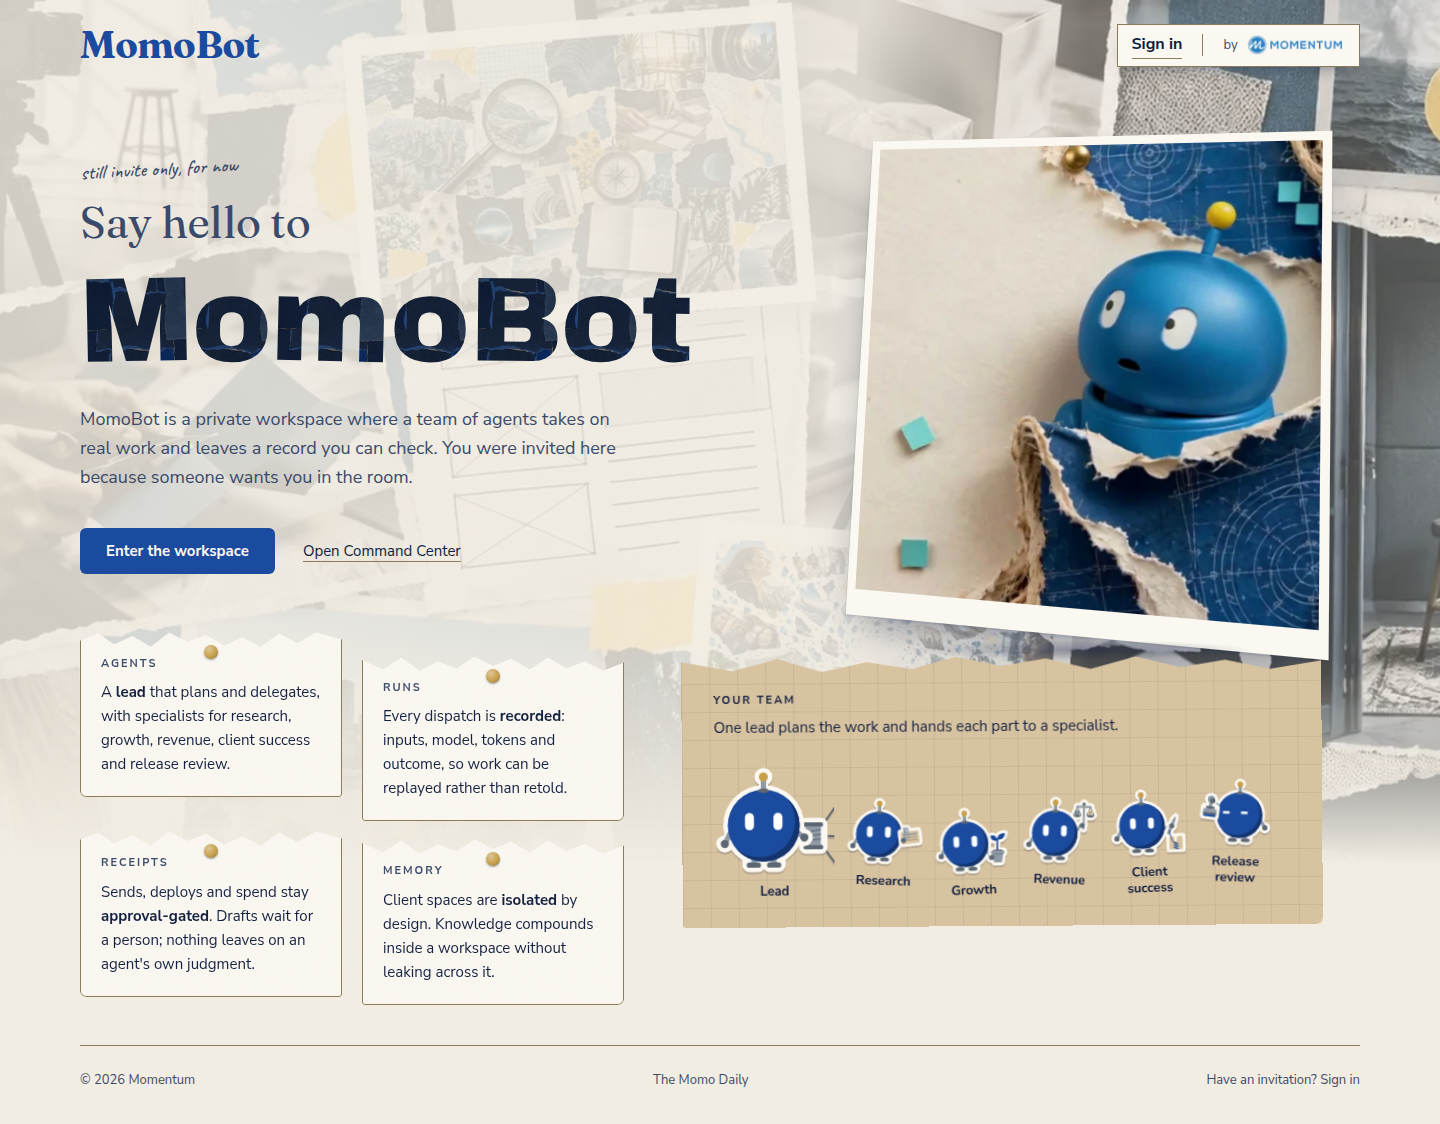
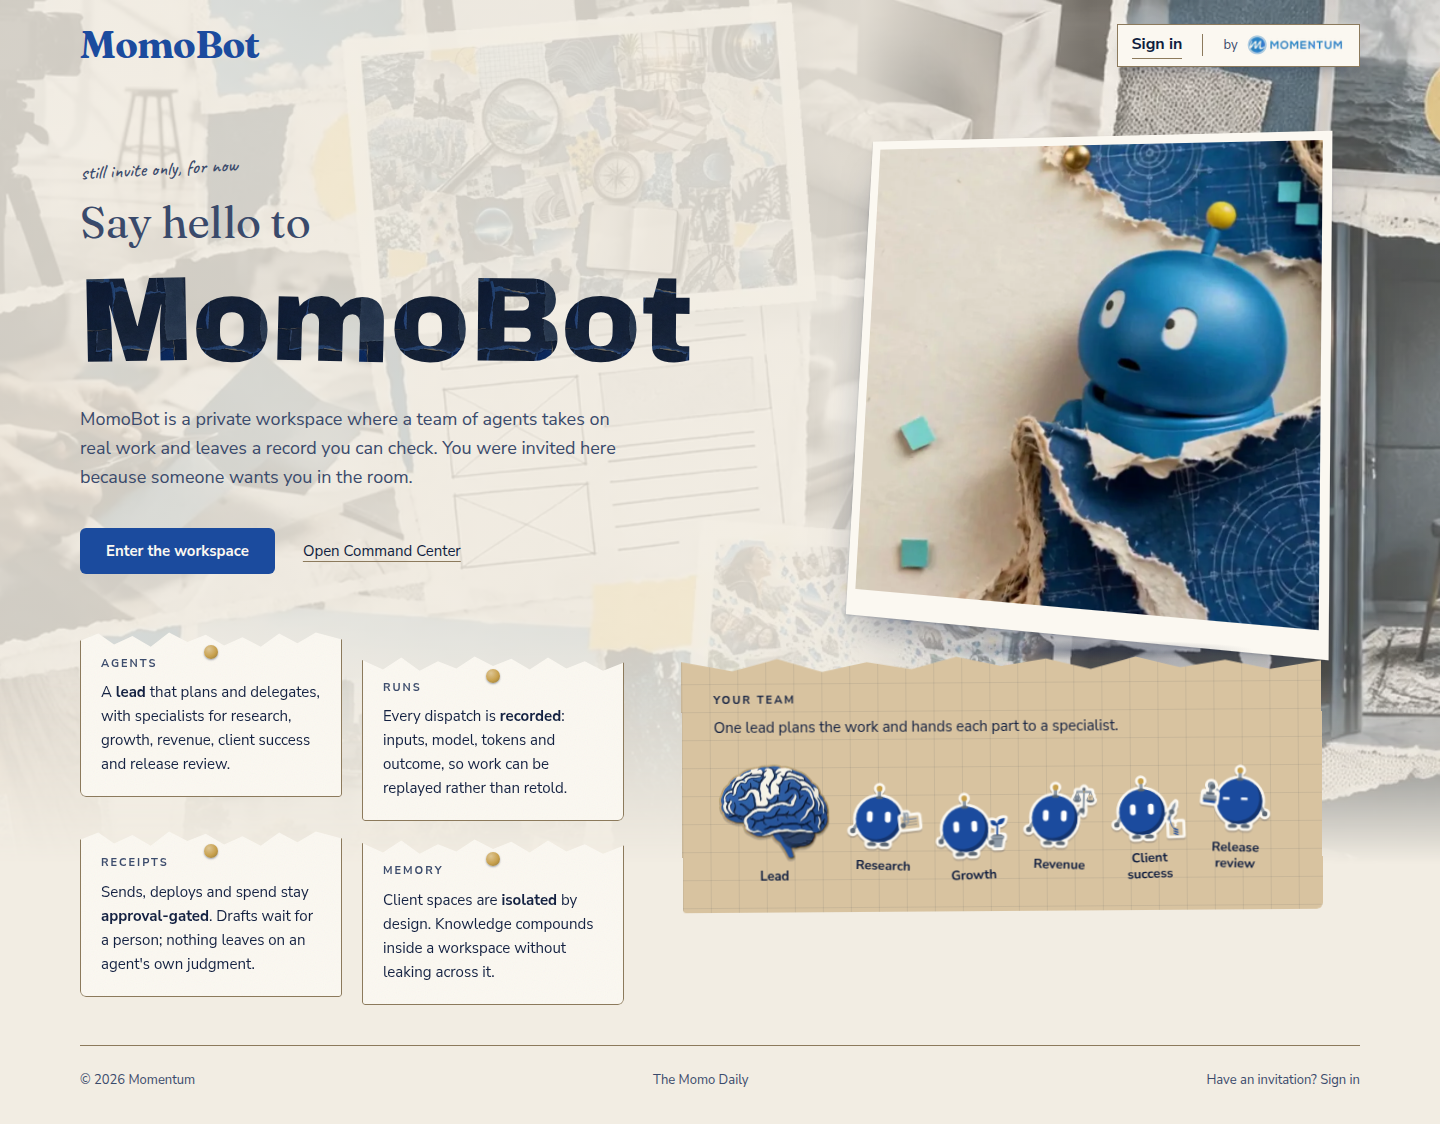
design(d7): team sheet lead is Dillon Brain; Momo stays in column 1 at 64-72rem
Review on #48: the sheet drew the lead as the generic lead.svg, which no
signed-in view uses; it now draws BRAIN_FLAT, the art MomoAvatar and the
Command Center use for dillon-brain. Between 64rem and 72rem the widened
hero grid centred Momo across the whole shell; he now takes column 1.
Test asserts the lead's art; 1100px evidence shot added.

Claude-Session: https://claude.ai/code/session_01LPnt5uD6dL4e76HEEDtExP

Changed region(s): [[0.4688, 0.6851, 0.9375, 0.8407]]

diff --git a/frontend/src/components/momentum/landing/momentum-landing.tsx b/frontend/src/components/momentum/landing/momentum-landing.tsx
@@ -35,6 +35,10 @@ import {
   FUNNEL_TREATMENT,
   resolveFunnelTreatment,
 } from "@/components/momentum/treatment";
+import {
+  BRAIN_ASPECT,
+  BRAIN_FLAT,
+} from "@/components/workspace/command-center/momo-avatar";
 
 import styles from "./momentum-landing.module.css";
 
@@ -84,17 +88,24 @@ const CAPABILITIES = [
 
 /*
  * The team sheet beside the cards: the lead and the five specialists the
- * Agents card names, drawn with the same canon Momo art the Command Center
- * roster uses (public/momentum/momos, momo-avatar.tsx), so the front door
- * shows the team people will actually meet. The lead comes first and larger.
+ * Agents card names, drawn with the art the Command Center roster uses. The
+ * lead is Dillon Brain (the flat render of the BRAIN_LAYERS stack that
+ * MomoAvatar draws for "dillon-brain"); the specialists are canon Momos from
+ * public/momentum/momos. The lead comes first and larger.
  */
+const momo = (slug: string) => `/momentum/momos/${slug}.svg`;
 const TEAM = [
-  { slug: "lead", name: "Lead" },
-  { slug: "research", name: "Research" },
-  { slug: "growth", name: "Growth" },
-  { slug: "revenue", name: "Revenue" },
-  { slug: "client-success", name: "Client success" },
-  { slug: "qa", name: "Release review" },
+  { key: "lead", name: "Lead", src: BRAIN_FLAT, aspect: BRAIN_ASPECT },
+  { key: "research", name: "Research", src: momo("research"), aspect: 1 },
+  { key: "growth", name: "Growth", src: momo("growth"), aspect: 1 },
+  { key: "revenue", name: "Revenue", src: momo("revenue"), aspect: 1 },
+  {
+    key: "client-success",
+    name: "Client success",
+    src: momo("client-success"),
+    aspect: 1,
+  },
+  { key: "qa", name: "Release review", src: momo("qa"), aspect: 1 },
 ] as const;
 
 // Staggered pin offsets for the four paper cards — deliberately uneven, never
@@ -316,13 +327,13 @@ function PaperLanding() {
             </p>
             <ul className={styles.paperTeamList}>
               {TEAM.map((member) => (
-                <li className={styles.paperTeamMember} key={member.slug}>
+                <li className={styles.paperTeamMember} key={member.key}>
                   <img
                     className={styles.paperTeamArt}
-                    src={`/momentum/momos/${member.slug}.svg`}
+                    src={member.src}
                     alt=""
                     width={120}
-                    height={120}
+                    height={Math.round(120 / member.aspect)}
                     loading="lazy"
                     decoding="async"
                   />

diff --git a/frontend/tests/unit/components/momentum/landing-team.dom.test.tsx b/frontend/tests/unit/components/momentum/landing-team.dom.test.tsx
@@ -2,6 +2,7 @@ import { afterEach, beforeEach, describe, expect, it, rs } from "@rstest/core";
 import { cleanup, render, screen, within } from "@testing-library/react";
 
 import { MomentumLanding } from "@/components/momentum/landing/momentum-landing";
+import { BRAIN_FLAT } from "@/components/workspace/command-center/momo-avatar";
 
 rs.mock("next/navigation", () => ({
   useRouter: () => ({ push: () => undefined }),
@@ -48,14 +49,19 @@ describe("landing team sheet (d7)", () => {
     }
   });
 
-  it("draws canon Momo art as decoration, with the name as the text", () => {
+  it("draws the roster art as decoration, with the name as the text", () => {
     render(<MomentumLanding />);
 
     const team = screen.getByRole("region", { name: "Your team" });
-    const art = team.querySelectorAll("img");
+    const art = [...team.querySelectorAll("img")];
     expect(art).toHaveLength(6);
     for (const img of art) {
       expect(img.getAttribute("alt")).toBe("");
+    }
+    // The lead is Dillon Brain, the art the Command Center draws for the
+    // lead, not the unused generic lead Momo.
+    expect(art[0]!.getAttribute("src")).toBe(BRAIN_FLAT);
+    for (const img of art.slice(1)) {
       expect(img.getAttribute("src")).toMatch(
         /^\/momentum\/momos\/[a-z-]+\.svg$/,
       );

diff --git a/frontend/src/components/momentum/landing/momentum-landing.module.css b/frontend/src/components/momentum/landing/momentum-landing.module.css
@@ -508,6 +508,9 @@
     max-width: 44rem;
   }
 
+  /* Until Momo goes absolute at 72rem he centres over the headline
+     column, not across the widened grid. */
+  .paperHero > .paperMomos,
   .paperHero > .paperCards {
     grid-column: 1;
   }

diff --git a/DESIGN.md b/DESIGN.md
@@ -171,7 +171,7 @@ Items 1, 2 and 5 need both `prefers-reduced-motion: no-preference` and the user'
 ## Layout
 
 - **Front door names.** The product leads and the maker signs off apart from it. On `/` the MomoBot name sits top left and "by Momentum" (the unchanged wordmark artwork) sits on a cream tab at the far top right, after Sign in; phones drop the header Sign in because the hero's Enter the workspace goes to the same place. On `/login` the name heads the sheet and the Momentum tab sits in the page's top right corner. In the workspace sidebar the MomoBot name leads the header and the Momentum signature closes the footer, right-aligned. Momo is the focal point: beside the headline or the sheet on wide screens, above them on phones.
-- **Front door composition.** Below the hero on `/`, the four capability cards take the left column and a kraft grid "Your team" sheet stands beside them from 64rem: the lead and the five specialists the Agents card names, as canon Momo stickers (`public/momentum/momos`) with their names in ink. It rests unpinned and follows the cards on phones. No free-floating kraft scrap behind the cards.
+- **Front door composition.** Below the hero on `/`, the four capability cards take the left column and a kraft grid "Your team" sheet stands beside them from 64rem: the lead as Dillon Brain (the same art the Command Center draws for the lead) and the five specialists the Agents card names as canon Momo stickers (`public/momentum/momos`), with their names in ink. It rests unpinned and follows the cards on phones. No free-floating kraft scrap behind the cards.
 - **Page frame.** Operate pages sit in `WorkspaceContainer`, with a max width of `--container-width-md` (816px) or `-lg` (1024px). Command Center has its own 1560px frame, with 32px gutters on desktop and 16px on phones.
 - **Page header.** The h1 and a one-sentence lede sit on the left. One primary action sits on the right and wraps under the lede on phones. The work leads: when a page has records, show them before any create form (Scheduled tasks puts its list first and a "New scheduled task" button jumps to the form).
 - **Command Center order.**
